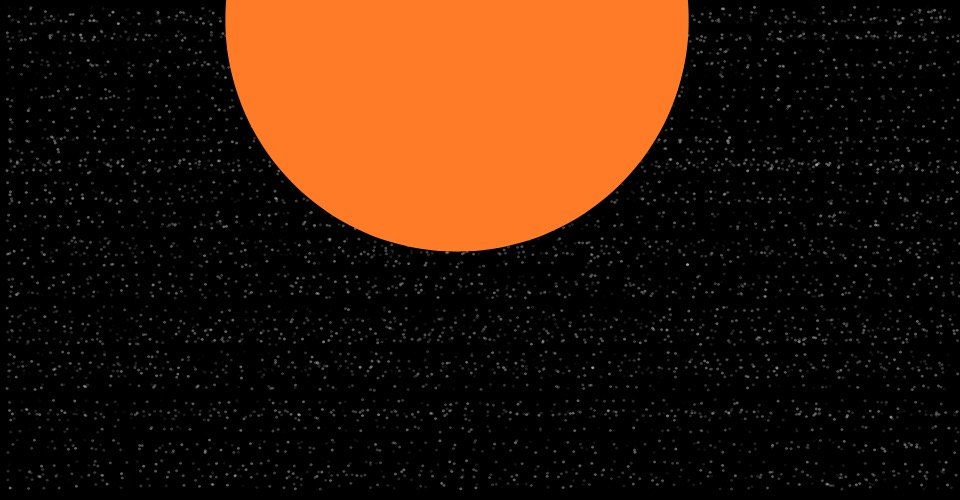
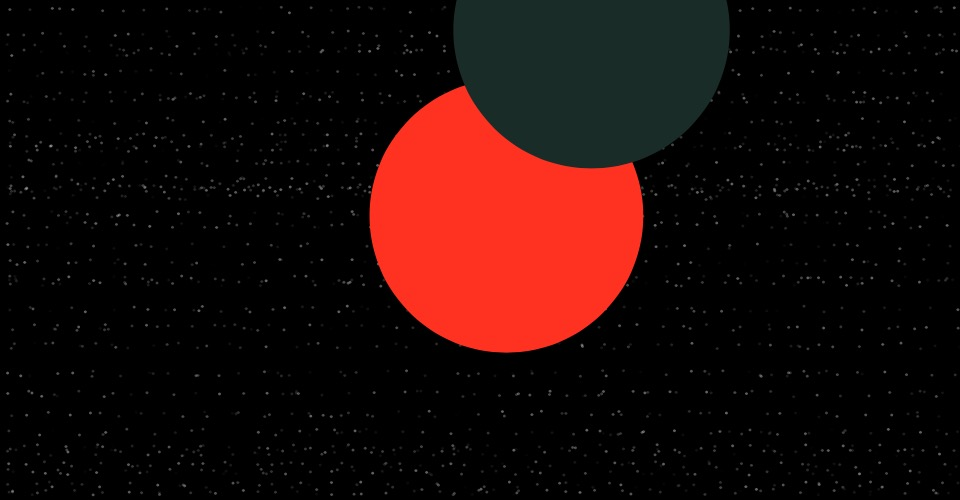
Updated to landscape second commit

diff --git a/sketch.js b/sketch.js
@@ -1,6 +1,20 @@
+  var slider1, slider2, slider3, slider4, slider5;
+
 function setup () {
 	curRandomSeed = int(focusedRandom(0, 100));
-  	createCanvas(960, 500);
+  	var main_canvas = createCanvas(960, 500);
+ 	main_canvas.parent('canvasContainer');
+
+
+  slider1 = createSlider(1, 5, 3);
+  slider2 = createSlider(1, 4, 2);
+  slider3 = createSlider(-25, 25, 0);
+
+
+  slider1.parent('slider1Container');
+  slider2.parent('slider2Container');
+  slider3.parent('slider3Container');
+
 
 
 function changeRandomSeed() {
@@ -17,6 +31,10 @@ function mousePressed() {
 
 function draw () {
 
+	var s1 = slider1.value();
+ 	var s2 = slider2.value();
+  	var s3 = slider3.value();
+
 	background(0);
 
 	resetFocusedRandom(curRandomSeed);
@@ -28,8 +46,8 @@ function draw () {
     
 
   	//stars	
-    for(j = 10; j < height; j = j + 10 * random(1.5)){
-  		for(i = 10; i < width; i = i + 10 * random(2)){
+    for(j = 10; j < height; j = j + 10 * random(s1)){
+  		for(i = 10; i < width; i = i + 10 * random(s1)){
 
   		noStroke();
 
@@ -40,9 +58,64 @@ function draw () {
   	}
   }
 
-  fill(255, 123, 40);
-  var scale = random(150, 500);
-  ellipse(random(width), random(height), scale, scale);
+  var planet = s2;
+
+  if(planet == 1){
+
+  	fill(255 + s3, random(123)+ s3, random(40)+ s3);
+  	var scale = random(150, 500);
+  	ellipse(random(width), random(height), scale, scale);
+
+  }
+
+  if(planet == 2){
+
+  	fill(255+ s3, random(123)+ s3, random(40)+ s3);
+
+  	var scale = random(150, 500);
+  	ellipse(random(width), random(height), scale, scale);
+
+  	fill(random(100)+ s3, random(123)+ s3, 40+ s3);
+  	var scale = random(50, 350);
+  	ellipse(random(width), random(height), scale, scale);
+
+  }
+
+   if(planet == 3){
+
+  	fill(255+ s3, random(123)+ s3, random(40)+ s3);
+  	var scale = random(150, 500);
+  	ellipse(random(width), random(height), scale, scale);
+
+  	fill(random(100)+ s3, random(123)+ s3, 40+ s3);
+  	var scale = random(50, 350);
+  	ellipse(random(width), random(height), scale, scale);
+
+  	fill(random(200)+ s3, random(123)+ s3, random(40)+ s3);
+  	var scale = random(20, 200);
+  	ellipse(random(width), random(height), scale, scale);
+
+  }
+
+  if(planet == 4){
+
+  	fill(255+ s3, random(123)+ s3, random(40)+ s3);
+  	var scale = random(150, 500);
+  	ellipse(random(width), random(height), scale, scale);
+
+  	fill(random(100)+ s3, random(123)+ s3, 40+ s3);
+  	var scale = random(50, 350);
+  	ellipse(random(width), random(height), scale, scale);
+
+  	fill(random(200), random(123), random(40));
+  	var scale = random(20, 200);
+  	ellipse(random(width), random(height), scale, scale);
+
+  	fill(random(200, 250), random(123), random(40));
+  	var scale = random(40, 400);
+  	ellipse(random(width), random(height), scale, scale);
+
+  }
 
 
   

diff --git a/index.html b/index.html
@@ -6,8 +6,46 @@
     <script language="javascript" type="text/javascript" src=".focused_random.js"></script>
     <script language="javascript" type="text/javascript" src=".purview_helper.js"></script>
     <script language="javascript" type="text/javascript" src="sketch.js"></script>
-    <style> body {padding: 0; margin: 0;} </style>
+    <style>
+        body   { padding: 0; margin: 0; }
+        .inner { position: absolute; }
+        #controls {
+            font: 300 12px "Helvetica Neue";
+            padding: 5;
+            margin: 5;
+            background: #f0f0f0;
+            opacity: 0.0;
+            -webkit-transition: opacity 0.2s ease;
+            -moz-transition: opacity 0.2s ease;
+            -o-transition: opacity 0.2s ease;
+            -ms-transition: opacity 0.2s ease;
+        }
+        #controls:hover { opacity: 0.9; }
+    </style>
 </head>
 
-<body style="background-image: url(background.jpg); background-repeat: no-repeat;">
+<body style="background-color:white">
+<div class="outer">
+        <div class="inner">
+            <div id="canvasContainer"></div>
+        </div>
+        <div class="inner" id="controls" height="500px">
+            <table>
+                <tr>
+                    <td>Stars</td>
+                    <td id="slider1Container"></td>
+                </tr>
+                <tr>
+                    <td>Planets</td>
+                    <td id="slider2Container"></td>
+                </tr>
+                <tr>
+                    <td>Colour</td>
+                    <td id="slider3Container"></td>
+                </tr>
+
+            </table>
+        </div>
+    </div>
+</table>
 </body>

diff --git a/README.md b/README.md
@@ -1,5 +1,3 @@
 17.2.MDDN342 PS3
 
-Starting work on my landscape I have decided to explore a spacescape. The number of stars that forms the background can be varied from a lot of stars, to very little. The layout of the stars is determined by a nested for loop, with random variation in placement to create an organice feel. The opacity of the stars is alos generated randomly to create a more realistic backdrop.
-
-The foreground is going to be made up of planets with varied size and colour.
+My final landscape. The scene has control sliders to produce different spacescapes based on user preference. If i was to take the design further, I would have liked to push the foreground elements further. The random placement of planets have no focus drawing the design together. Having a strong forground element would draw the deisgn together nicely.
